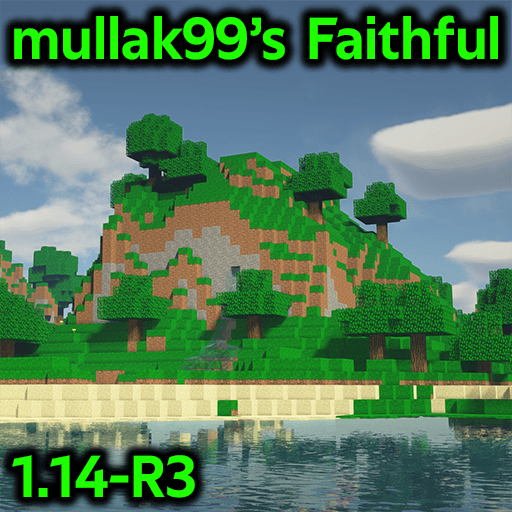
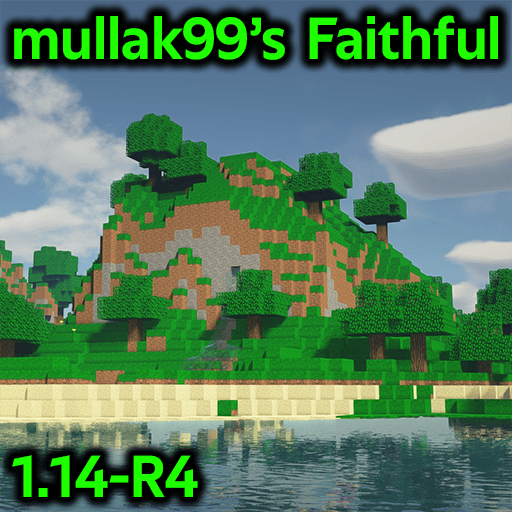
1.14-specific changes

Changed region(s): [[0.3125, 0.875, 0.4062, 1.0]]

diff --git a/ChangeLog.md b/ChangeLog.md
@@ -1,70 +1,17 @@
 # Changelog
 All notable changes to mullak99's Faithful will be documented in this file.
 
-## [MC1.15-R7] - 2022-06-09
+## [MC1.14-R4] - 2022-06-09
 ### Changed
 - Included changes / brought up-to-date with MC1.18-R4
 
-## [MC1.15-R6] - 2021-12-27
+## [MC1.14-R3] - 2021-12-27
 ### Changed
 - Included changes / brought up-to-date with MC1.18-R3
 
-## [MC1.15-R5] - 2021-12-18
+## [MC1.14-R2] - 2021-12-18
 ### Changed
 - Included changes / brought up-to-date with MC1.18-R2
-
-## [MC1.15-R4] - 2020-06-11
-### Added
-- Added missing skeleton horse textures.
-
-### Changed
-- Changed Mooshroom textures to Pre-JAPPA style.
-
-### Fixed
-- Fixed cow texture.
-
-### Removed
-- Removed unused textures.
-
-## [MC1.15-R3] - 2020-02-24
-### Added
-- Added calm4.ogg.
-
-### Changed
-- Changed Rail 3D models (Removed stretched textures).
-- Muted 'Nether', 'Creative' and 'Menu' music tracks.
-
-### Fixed
-- Fixed Shield pattern textures.
-- Fixed inconsistent shulker textures.
-
-## [MC1.15-R2] - 2020-02-17
-### Added
-- Added quieter Nether Portal and Minecart sounds.
-
-### Changed
-- Changed Netherrack blockstate so it no longer randomly rotates.
-- Optimised Jukebox 3D models.
-
-## [MC1.15-R1] - 2020-02-06
-### Added
-- Added 1.15 Block textures.
-- Added 1.15 Item textures.
-- Added 1.15 Entity textures.
-- Added Horse Armour textures.
-- Added Minecraft Realm title texture.
-
-### Changed
-- Compressed many textures.
-- Changed Painting texture.
-- Changed Iron and Gold Ingot textures.
-- Changed Dried Kelp texture.
-- Changed realms On, Off, and Expired icons.
-- Updated Jukebox 3D Model.
-- Updated Beehive and Bees Nest textures/models.
-
-### Removed
-- Removed REI GUI textures.
 
 ## [MC1.14-R1] - 2019-12-17
 ### Added

diff --git a/README.md b/README.md
@@ -1,6 +1,6 @@
 # mullak99's Faithful 32x
 
-**Current Branch Version:** _MC1.15-R7_  
+**Current Branch Version:** _MC1.14-R4_  
 
 ## Official Links
 
